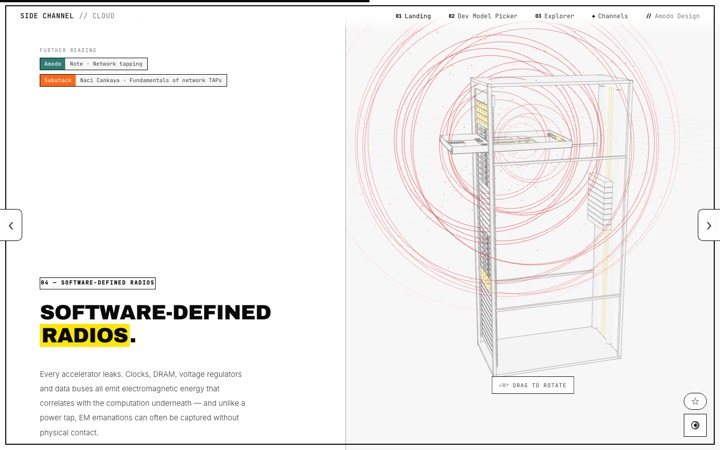
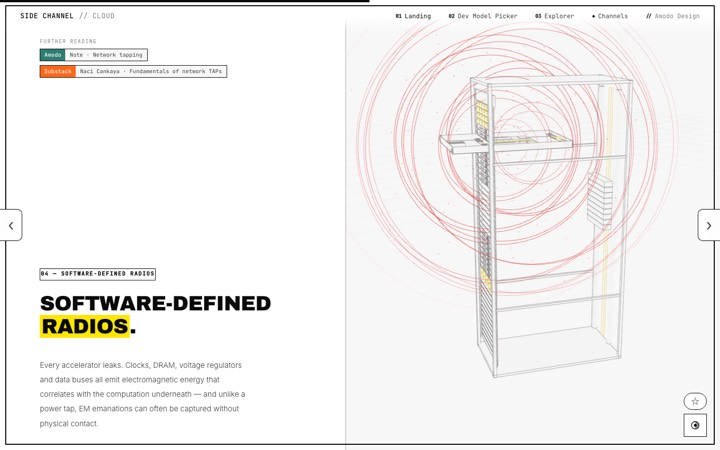
About section rename + wider card; reconfigurable shows bare rack + drag hint
- Second section renamed "About Side Channel Cloud"; card widened to
  the right (max-width 1240px, left-aligned in a 96vw section) so the
  reference chips sit two-up.
- Channels: the reconfigurable-hardware section drops its instrument
  box and shows the bare spinning rack with the drag-to-rotate hint.
  That hint is hidden across every earlier section (new ch-hide-hint
  gate) and only appears here, inviting interaction.

diff --git a/src/scripts/stage-modes.js b/src/scripts/stage-modes.js
@@ -1150,6 +1150,7 @@ function emanateMode({ viewer, ctrl }) {
 // ---------------------------------------------------------------------------
 function channelsMode({ viewer, ctrl, stage }) {
   ctrl.setOpacity(0.5);
+  stage.classList.add('ch-hide-hint'); // drag-to-rotate stays hidden until the reconfigurable section
   const css = getComputedStyle(document.documentElement);
   const ACC = (css.getPropertyValue('--terra').trim()) || '#e3342f';
   const INK = (css.getPropertyValue('--cream').trim()) || '#111111';
@@ -1271,7 +1272,7 @@ function channelsMode({ viewer, ctrl, stage }) {
     if (set.has('nic') || set.has('interconnect')) return 'packets';
     if (set.has('memory') || set.has('gpu')) return 'em';
     if (set.has('cpu') || set.has('pcb') || set.has('drive')) return 'counters';
-    if (set.has('connector') || set.has('cable')) return 'dataflow';
+    if (set.has('connector') || set.has('cable')) return 'rotate';
     return 'none';
   }
   let channel = 'init', emAdapter = null;
@@ -1280,6 +1281,13 @@ function channelsMode({ viewer, ctrl, stage }) {
     if (channel === 'em' && emAdapter) { emAdapter.dispose(); emAdapter = null; ctrl.setOpacity(0.5); }
     if (channel === 'packets') stopTerm();
     channel = c;
+    if (c === 'rotate') {
+      // bare spinning rack — invite interaction
+      stage.classList.remove('ch-hide-hint');
+      const h = stage.querySelector('.drag-hint'); if (h) h.classList.remove('seen');
+      return;
+    }
+    stage.classList.add('ch-hide-hint');
     if (c === 'em') { emAdapter = createStageAdapter('emanate', { viewer, ctrl, stage }); return; }
     if (c === 'none') return;
     title.textContent = LABELS[c] || '';
@@ -1305,7 +1313,7 @@ function channelsMode({ viewer, ctrl, stage }) {
     onFrame() {
       t += 1 / 60;
       if (emAdapter && emAdapter.onFrame) emAdapter.onFrame();
-      const boxed = channel === 'scope' || channel === 'packets' || channel === 'counters' || channel === 'dataflow';
+      const boxed = channel === 'scope' || channel === 'packets' || channel === 'counters';
       const f = boxed ? sectionFocus() : 0;
       box.style.opacity = f.toFixed(3);
       box.style.transform = 'translateY(' + ((1 - f) * 26).toFixed(1) + 'px)';
@@ -1313,13 +1321,12 @@ function channelsMode({ viewer, ctrl, stage }) {
       if (boxed && f > 0.03) {
         if (channel === 'scope') drawScope();
         else if (channel === 'counters') drawCounters();
-        else if (channel === 'dataflow') drawDataflow();
       }
     },
     dispose() {
       window.removeEventListener('resize', sizeCanvas);
       if (emAdapter) emAdapter.dispose();
-      stopTerm(); overlay.remove(); ctrl.setOpacity(1);
+      stopTerm(); overlay.remove(); ctrl.setOpacity(1); stage.classList.remove('ch-hide-hint');
     },
   };
 }

diff --git a/src/styles/style.css b/src/styles/style.css
@@ -248,9 +248,9 @@ h1, h2, h3 { font-family: var(--display); font-weight: 300; color: var(--cream);
 /* ====================================================================== */
 /* EXPLAINER — one large bordered card, visual twin of the access card    */
 /* ====================================================================== */
-.section.explainer { width: 92vw; max-width: 1272px; padding-right: 40px; align-items: center; }
+.section.explainer { width: 96vw; max-width: 1500px; padding-right: 40px; align-items: flex-start; }
 .explainer-card {
-  width: 100%; max-width: 980px;
+  width: 100%; max-width: 1240px;
   background: var(--panel); border: 1px solid var(--border); border-radius: 18px;
   padding: 48px 54px 44px;
 }
@@ -464,3 +464,6 @@ h1, h2, h3 { font-family: var(--display); font-weight: 300; color: var(--cream);
 
 /* a Channels nav link, lightly distinguished */
 .navlinks a.chan::before { content: "◆ "; color: var(--terra); }
+
+/* Channels: gate the drag-to-rotate hint to the reconfigurable section */
+.scroll-stage.ch-hide-hint .drag-hint { opacity: 0 !important; }
